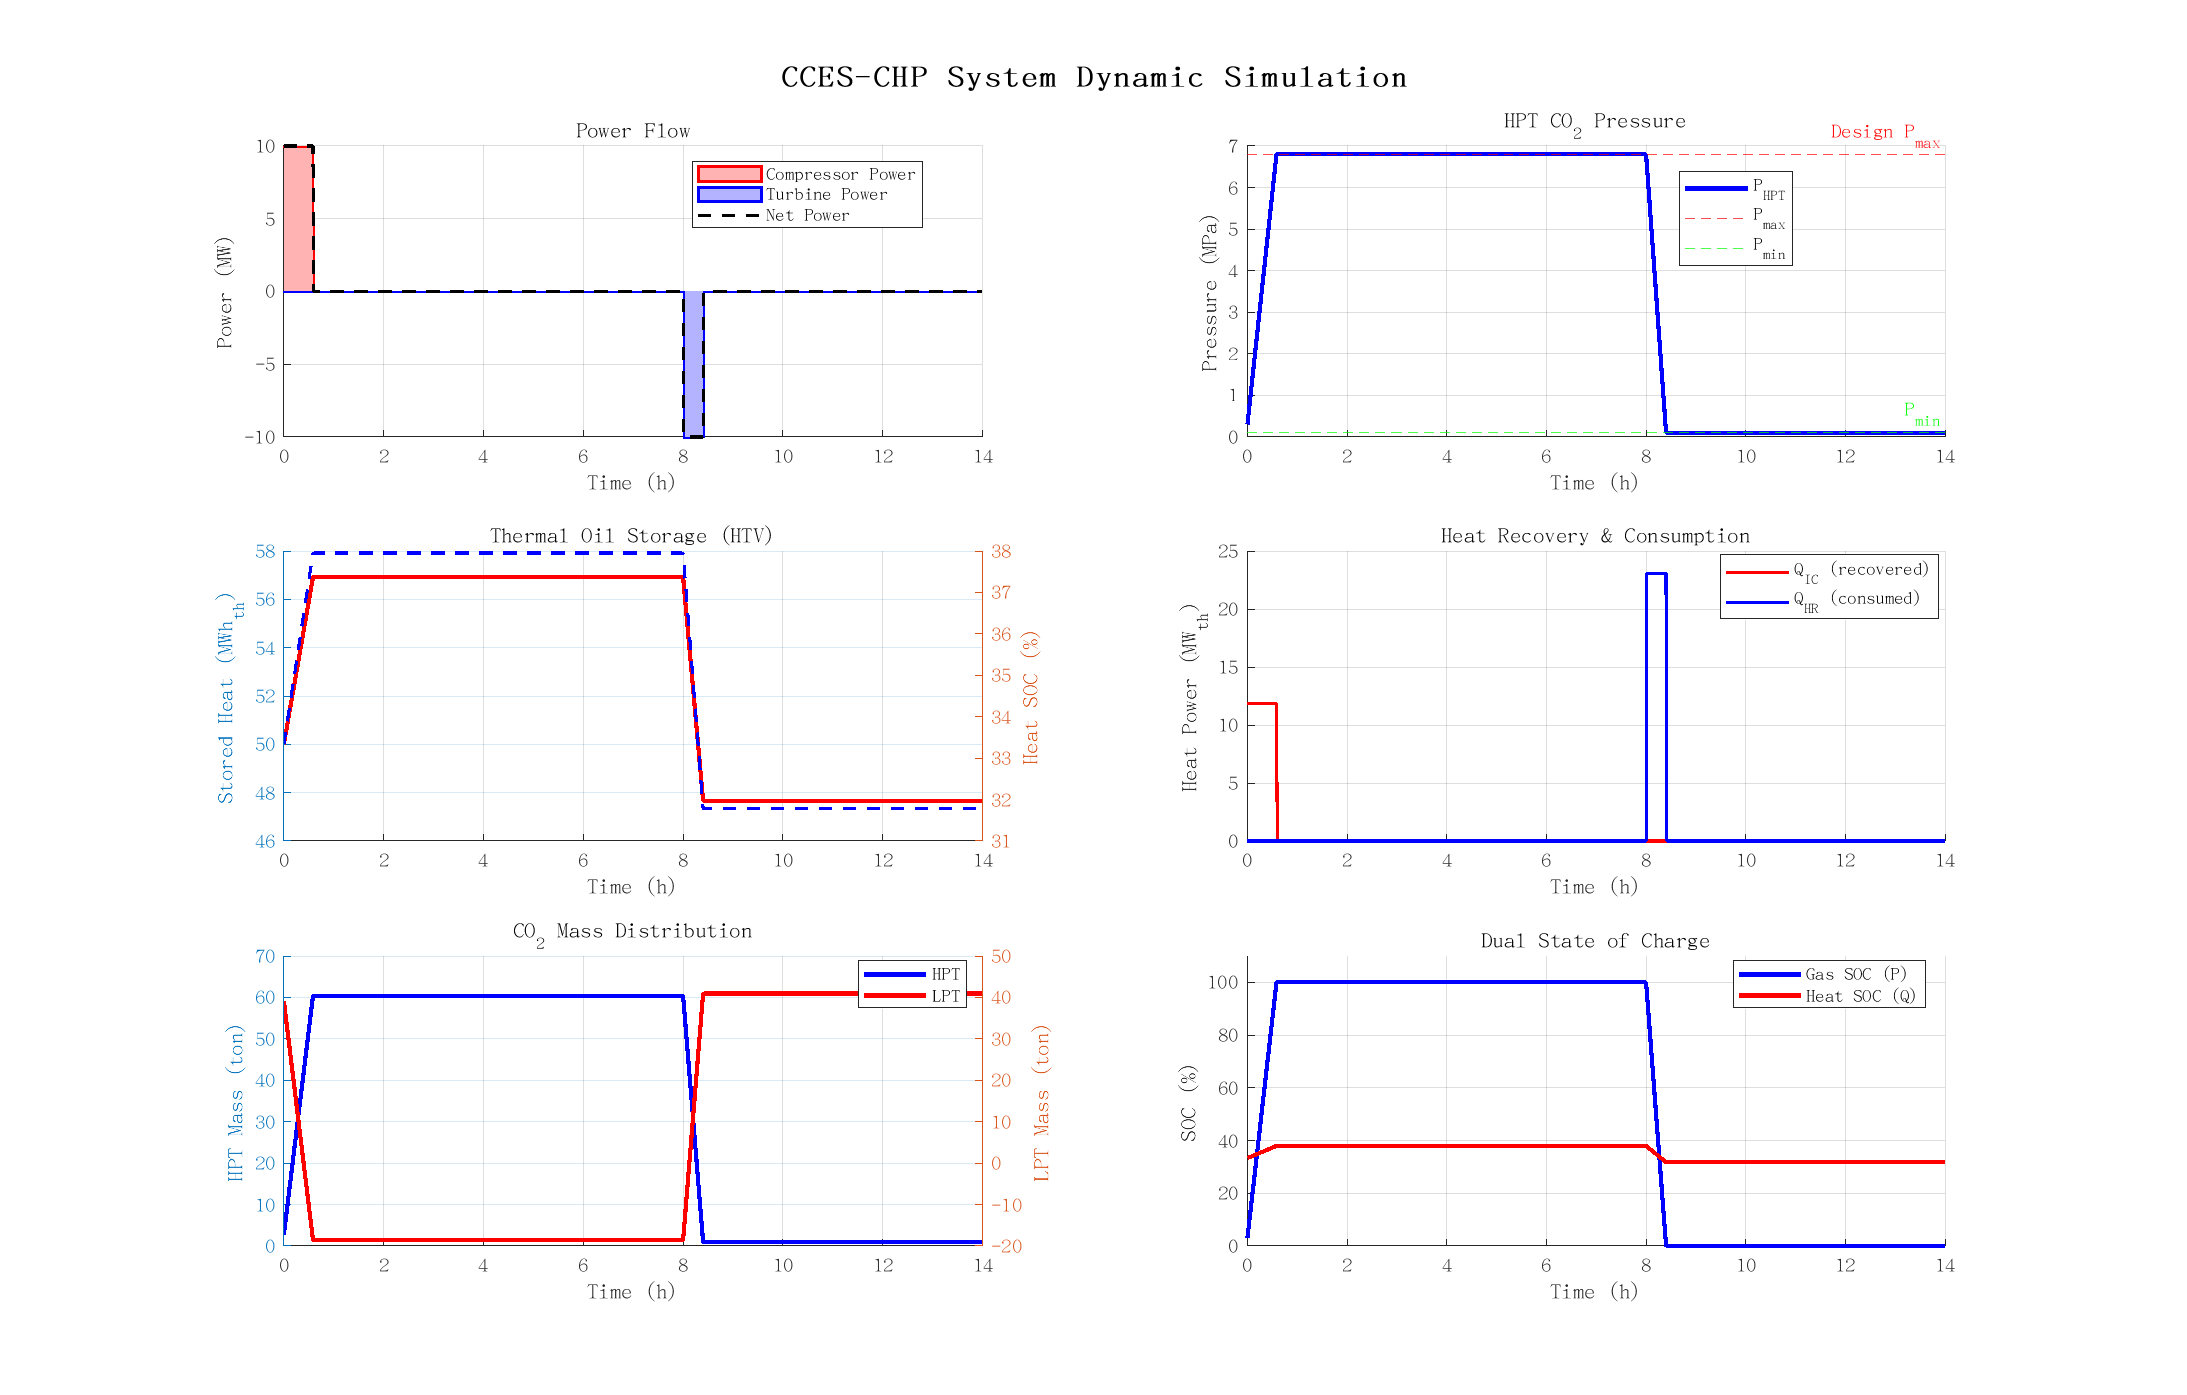
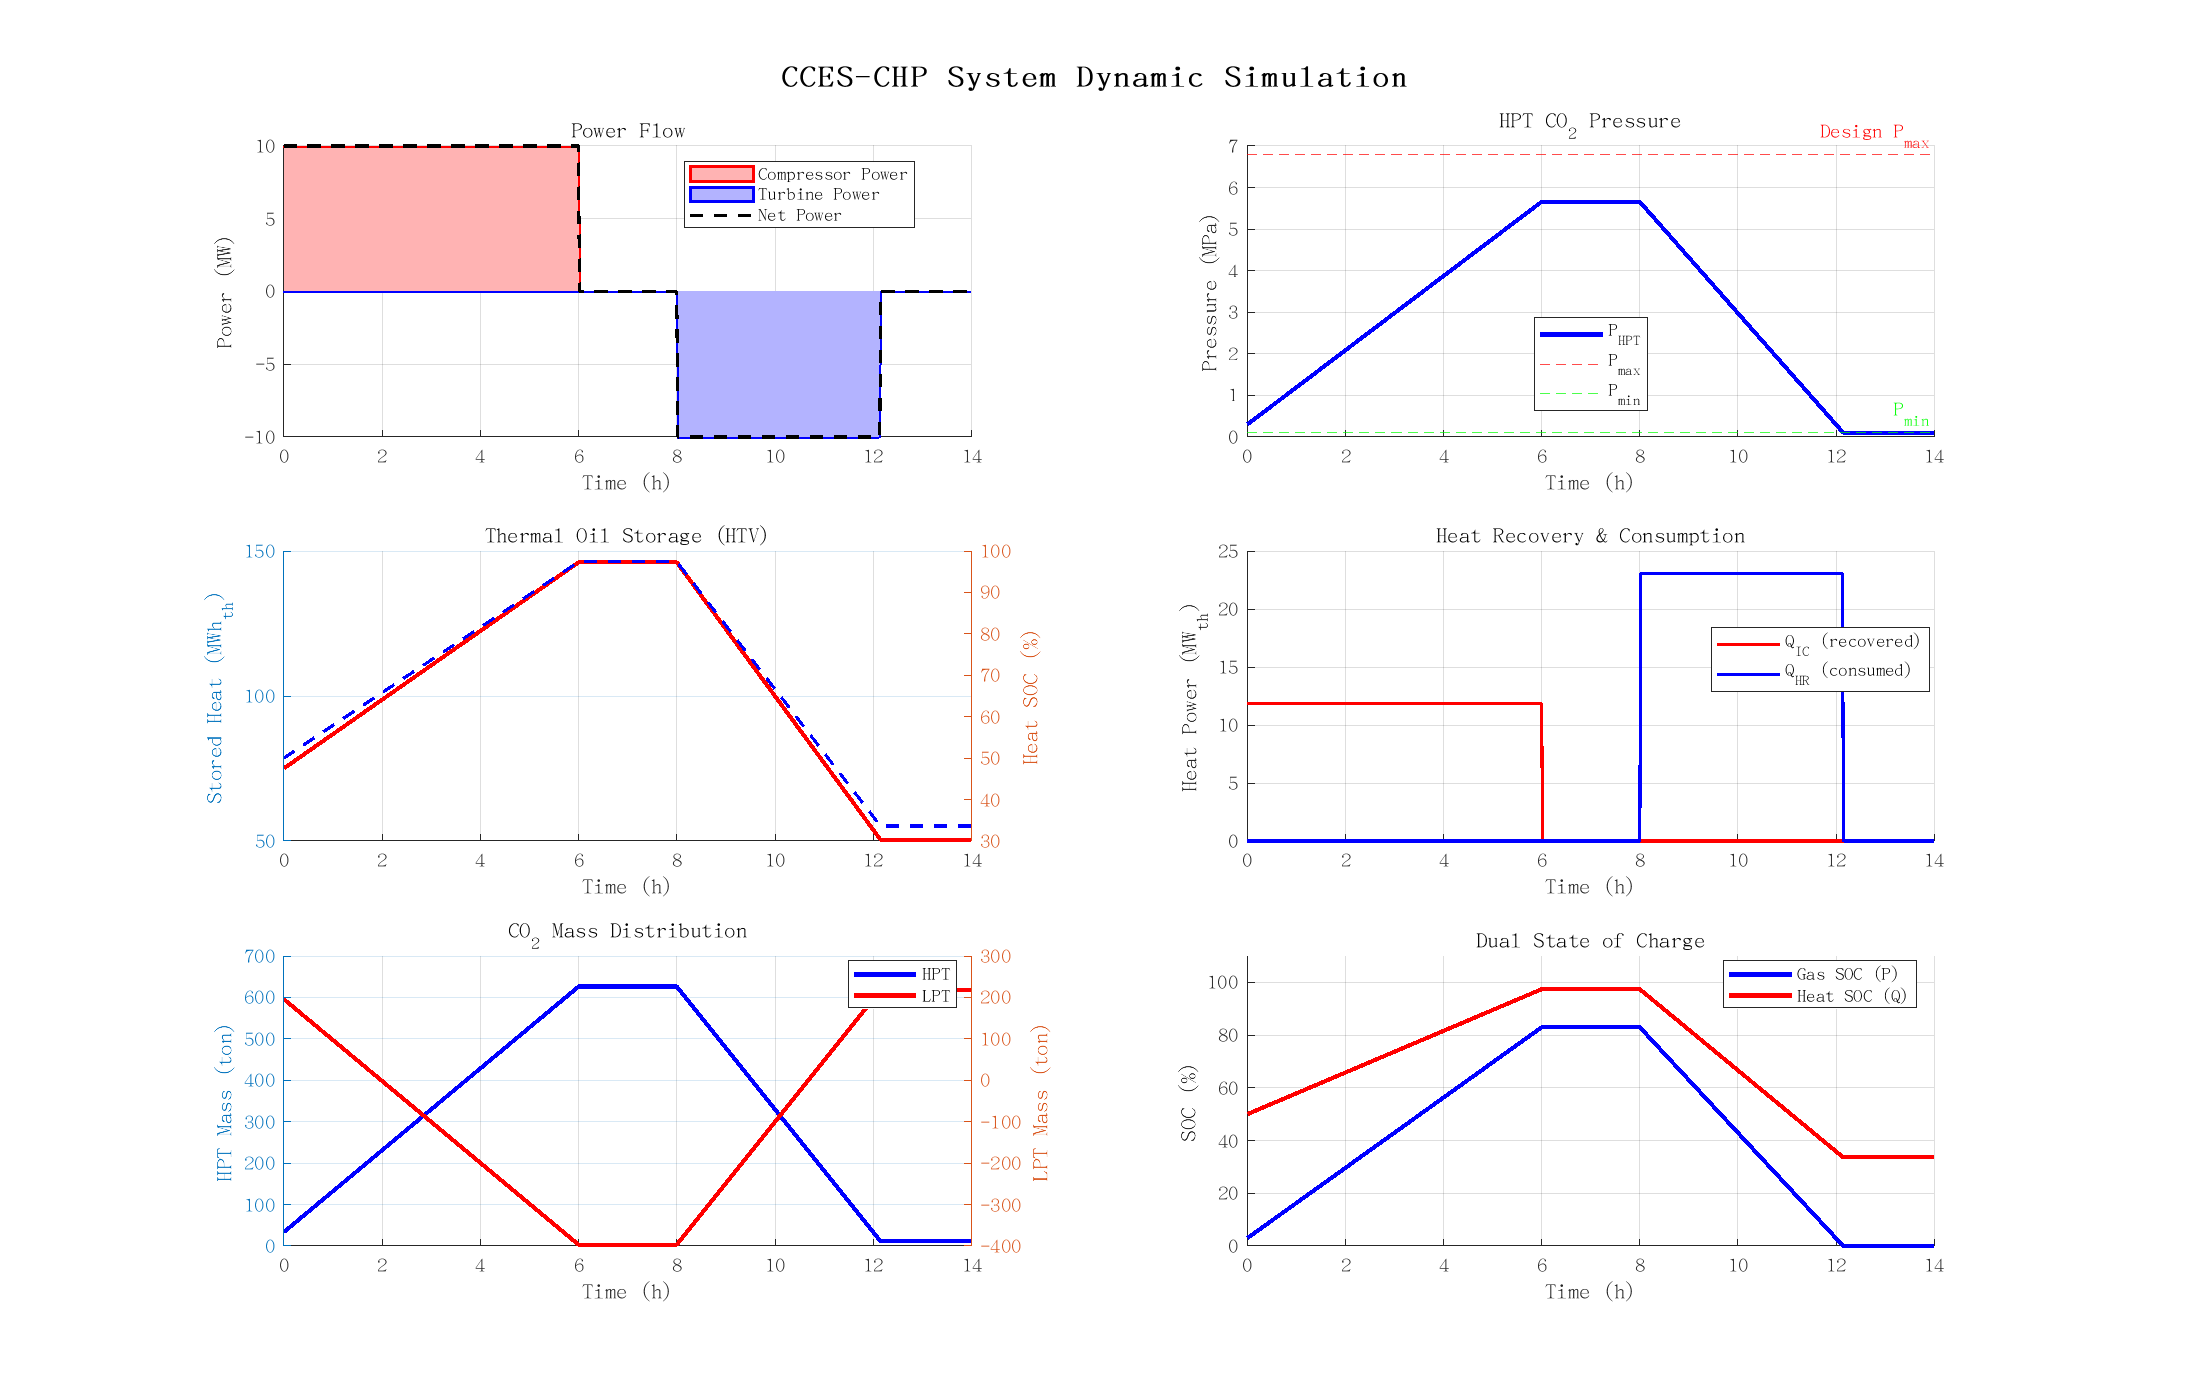
feat: add dynamic tank temperature to ODE with evaporative cooling
Third state variable T_tank:
- Discharge: dT/dt = -m_dot * 3e-5 K/s (evaporative cooling, ~9K in 3h)
- Charge: dT/dt = m_in*(298-T)/M0 (incoming 298K CO2 warms tank)
- Idle: dT/dt = (298-T)/50000 (ambient recovery)
T swings 288.9-298.0K, returns to 298K each cycle - no drift.
P = m*R*T/V now uses dynamic T, giving ~0.1 MPa additional P drop
during discharge from cooling effect.

diff --git a/CCES_CHP_Simulink/src/ode/ode_dynamics.m b/CCES_CHP_Simulink/src/ode/ode_dynamics.m
@@ -1,21 +1,20 @@
 function [dx, W_comp, Q_IC, W_turb, Q_HR, T_heat, mode] = ode_dynamics(t, x)
 % REFPROP-based ODE: 每步精确计算物性
-% x(1)=m_HPT [kg], x(2)=Q_HTV [MJ]
+% x(1)=m_HPT [kg], x(2)=Q_HTV [MJ], x(3)=T_tank [K]
 persistent lib Fluid
 
 if isempty(lib)
     lib = '/opt/refprop/';  Fluid = 'CO2';
 end
 
-m_HPT = x(1);  Q_HTV_MJ = x(2);
-T_tank = 298;  % 简化: 恒温 (已讨论过无漂移)
+m_HPT = x(1);  Q_HTV_MJ = x(2);  T_tank = x(3);
 P_MPa = m_HPT * 188.9 * T_tank / 6228 / 1e6;
 
 % 调度
 t_h = mod(t/3600, 24);
 if t_h < 7.5;       mode = 1;
-elseif t_h < 11.5;   mode = 0;  % 闲置 (含4h充放间隔)
-elseif t_h < 14.5;   mode = -1; % 放电3h (11.5-14.5)
+elseif t_h < 11.5;   mode = 0;
+elseif t_h < 14.5;   mode = -1;
 else;                mode = 0;
 end
 
@@ -28,32 +27,37 @@ Q_ok_dis = Q_MWh > 2;
 T_heat = 298 + 185 * Q_MWh / (Q_MWh + 20);
 
 W_design = 10;  % MW
+dT = 0;  % default: no T change (will be overridden)
 
 if mode == 1 && P_ok_ch && Q_ok_ch
     % ===== 充电: 压缩链 C1→IC1→C2→IC2→LHE =====
     [w_comp_kJ, q_IC_kJ] = charge_per_kg(lib, Fluid);
-    m_dot = W_design * 1e6 / (w_comp_kJ * 1000);  % kg/s
+    m_dot = W_design * 1e6 / (w_comp_kJ * 1000);
     dm_HPT = m_dot;
-    dQ_HTV = q_IC_kJ * m_dot / 1000;  % MJ/s = MW_th
+    dQ_HTV = q_IC_kJ * m_dot / 1000;
+    dT = m_dot * (298 - T_tank) / 500000;  % 流入298K CO2温热罐体
     W_comp = W_design;  Q_IC = q_IC_kJ * m_dot / 1000;
     W_turb = 0;  Q_HR = 0;
 
 elseif mode == -1 && P_ok_dis && Q_ok_dis
     % ===== 放电: 膨胀链 T1→Heater→T2 =====
     [w_turb_kJ, q_HR_kJ] = discharge_per_kg(lib, Fluid, T_tank, T_heat);
-    W_T = W_design * w_turb_kJ / charge_per_kg(lib, Fluid); % 等质量流量功率
+    W_T = W_design * w_turb_kJ / charge_per_kg(lib, Fluid);
     m_dot = W_T * 1e6 / (w_turb_kJ * 1000);
     dm_HPT = -m_dot;
     dQ_HTV = -q_HR_kJ * m_dot / 1000;
+    % 蒸发降温: 液态CO2抽出→部分闪蒸→吸收潜热
+    dT = -m_dot * 3e-5;  % K/s, ~3K/h降温
     W_comp = 0;  Q_IC = 0;
     W_turb = W_T;  Q_HR = q_HR_kJ * m_dot / 1000;
 
 else
     dm_HPT = 0;  dQ_HTV = 0;
+    dT = (298 - T_tank) / 50000;  % 环境回温, tau≈14h
     W_comp = 0;  Q_IC = 0;  W_turb = 0;  Q_HR = 0;
 end
 
-dx = [dm_HPT; dQ_HTV];
+dx = [dm_HPT; dQ_HTV; dT];
 end
 
 %% 充电: 返回 [压缩机总功 kJ/kg, IC回收热 kJ/kg]

diff --git a/CCES_CHP_Simulink/src/ode/run_ode_simulation.m b/CCES_CHP_Simulink/src/ode/run_ode_simulation.m
@@ -18,18 +18,19 @@ Q_init =  75 * 3600;
 
 %% 初始状态
 m_HPT_0 = 0.5 * (m_min + m_max);
-x0 = [m_HPT_0; Q_init];
+T_tank_0 = 298;
+x0 = [m_HPT_0; Q_init; T_tank_0];
 
 %% 仿真
 dt = 60;  t_sim = 1 * 86400;  tspan = 0:dt:t_sim;
-fprintf('CCES-CHP ODE仿真 (1天, REFPROP): 充电7.5h, 放电3h\n');
+fprintf('CCES-CHP ODE仿真 (1天, REFPROP+动态T): 充电7.5h, 放电3h\n');
 
 opts = odeset('RelTol', 1e-4, 'MaxStep', 300);
 [t, x] = ode45(@ode_dynamics, tspan, x0, opts);
 
 %% 后处理
-m_HPT = x(:,1);  Q_HTV = x(:,2);
-P_HPT = m_HPT * Rg * T_amb / V_HPT / 1e6;
+m_HPT = x(:,1);  Q_HTV = x(:,2);  T_tank = x(:,3);
+P_HPT = m_HPT .* Rg .* T_tank / V_HPT / 1e6;
 
 n = length(t);
 W_comp = zeros(n,1);  W_turb = zeros(n,1);
@@ -54,6 +55,7 @@ fprintf('E_charge:    %.1f MWh\n', E_ch);
 fprintf('E_discharge: %.1f MWh\n', E_dis);
 fprintf('RTE:         %.1f %%\n', E_dis/E_ch*100);
 fprintf('P_HPT:  %.2f - %.2f MPa\n', min(P_HPT), max(P_HPT));
+fprintf('T_tank: %.1f - %.1f K\n', min(T_tank), max(T_tank));
 fprintf('Q_HTV:  %.0f - %.0f MWh_th\n', min(Q_HTV)/3600, max(Q_HTV)/3600);
 fprintf('SOC_gas:  %.0f - %.0f %%\n', min(SOC_gas), max(SOC_gas));
 fprintf('SOC_heat: %.0f - %.0f %%\n', min(SOC_heat), max(SOC_heat));
